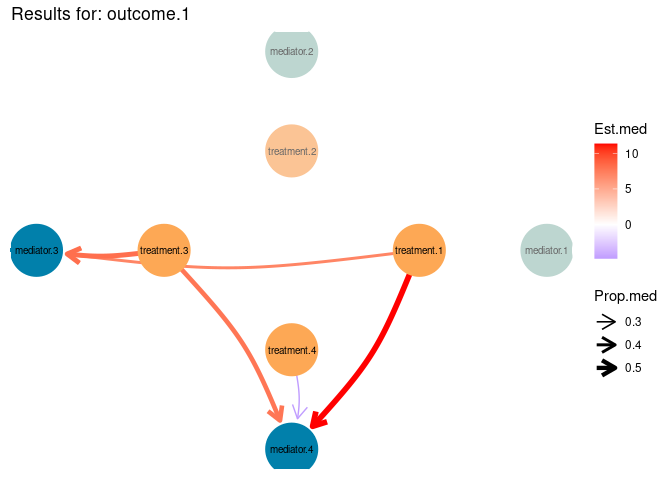
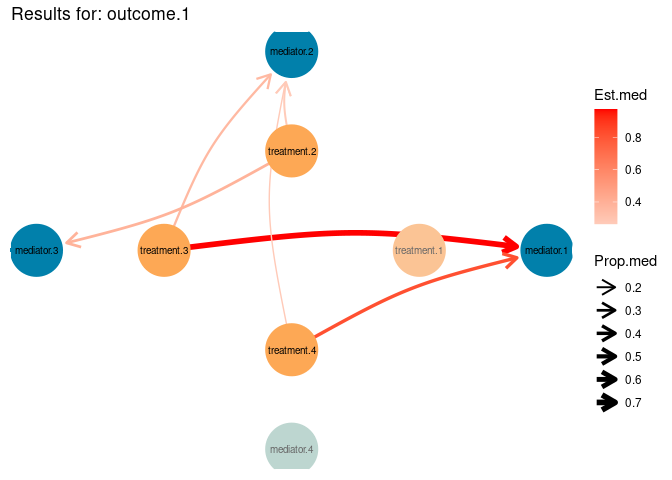
changing readme.md

diff --git a/README.md b/README.md
@@ -16,37 +16,52 @@ analysis could be performed.
 
 ## Data
 
-To do so, we will make use of a dataframe that contains information of
-98 mice that have died between week 26 and week 138 (this information is
-stored in a column called `age_death`). The dataframe also contains
-several columns indicating the sex of the mice (`sex`), and the measures
-of different treatments and mediators collected in a continuous form.
-There is an additional column (`HF`), that differentiates between mice
-that have died as a result of heart failure or not, 1 or 0,
-respectively.
+To do so, we will simulate some data. Imagine that we have 100
+individuals for which we have measured 4 different treatments (binary),
+4 different mediators (continuous) and a single outcome (continuous).
 
 ``` r
-data("df", package = "htmed")
+set.seed(123)
+
+n <- 100
+
+# data for the treatments
+df <- data.frame(
+  treatment.1 = rbinom(n, 1, 0.5), 
+  treatment.2 = rbinom(n, 1, 0.5), 
+  treatment.3 = rbinom(n, 1, 0.5),  
+  treatment.4 = rbinom(n, 1, 0.5),
+  outcome.1 = rnorm(n)
+)
+
+# data for the mediators
+df$mediator.1 <- - 0.5 * df$treatment.1 + 0.3 * df$treatment.2 + 0.4 * df$treatment.3 + 0.6 * df$treatment.4 + rnorm(n)
+df$mediator.2 <- -0.6 * df$treatment.1 - 0.5 * df$treatment.2 - 0.4 * df$treatment.3 - 0.7 * df$treatment.4 + rnorm(n)
+df$mediator.3 <- - 0.7 * df$treatment.2 - 0.2 * df$treatment.3 - 1 * df$treatment.4 + rnorm(n)
+df$mediator.4 <- - 0.5 * df$treatment.2 - 0.3 * df$treatment.3 - 0.2 * df$treatment.4 - rnorm(n)
+
+# data for the outcome
+df$outcome.1 <- 1 + 1.2 * df$mediator.1 + 1.0 * df$treatment.1 + 0.8 * df$treatment.2 + 0.6 * df$treatment.3 + 0.9 * df$treatment.4 + rnorm(n)
 ```
 
 With this data, we hypothesize that some treatments could be responsible
-of the heart failure observed in the mice, and that some mediators could
-explain the underlying mechanism of the relationship between the
-treatment and heart failure.
+of the values for the outcome observed in the individuals, and that some
+mediators could explain the underlying mechanism of the relationship
+between the treatment and the outcome.
 
 Therefore, we are interested in testing the association between each
-treatment and heart failure, through each mediator. In order to perform
-this mediation analyses, we first need to compute the fitted models for
+treatment and outcome, through each mediator. In order to perform this
+mediation analyses, we first need to compute the fitted models for
 mediators and outcomes, respectively, something that can be done with
 `generatting_models()`. However, before applying this function, we need
-to generate a new dataframe in which we will specify what combination of
-treatment, mediator and outcome we want to test. The dataframe (called
+to generate a new DataFrame in which we will specify what combination of
+treatment, mediator and outcome we want to test. The DataFrame (called
 `models` in this example), will be composed of as many rows as different
 analyses we want to perform and five different columns:
 
 -   outcome (characters): it contains the different outcomes that we are
     interested in predict. In this example we will work with just one
-    outcome: heart failure.
+    outcome.
 -   treatment (characters): column with the different treatments to
     test.
 -   mediator (characters): column with the different mediators to test.
@@ -56,11 +71,12 @@ analyses we want to perform and five different columns:
 -   model.y.formula (characters): similar to model.m.formula but with
     the formulas for the fitted models for outcome.
 
-As you can see, we will make use of `data_models()` to generate this
-dataframe. By default, this function makes all possible combinations of
-the supplied vectors outcome, treatment and mediator. If the user is
-interested in compute just some specific models, we recommend to build a
-dataframe following the five-column structure of `models`.
+As you can see, we will use the `data_models()` function to generate
+this DataFrame. By default, this function makes all possible
+combinations of the supplied vectors for outcome, treatment and
+mediator. If the user is interested in compute just some specific
+models, we recommend to build a DataFrame following the five-column
+structure of `models`.
 
 ``` r
 # data("models_surv", package = "htmed")
@@ -76,11 +92,11 @@ models <- data_models(outcome = outcome, mediator = mediator, treatment = treatm
 ### Generatting models for mediators and outcomes
 
 After generating `models`, we have all the necessary to apply the
-`generate_models()` function. This function will allow us to generate
-the fitted models for mediators and outcomes, for each combination of
+`generate_models()` function. With this function we will generate the
+fitted models for mediators and outcomes, for each combination of
 mediator, treatment and outcome, in an iterative manner.
 `generate_models()` contains 6 arguments, being mandatory 4 of them: the
-dataframe with the values (`data`), the dataframe with the models to
+DataFrame with the values (`data`), the DataFrame with the models to
 perform (`data.models`), the name of the column that contains the model
 formulas in `data.models` (`column.models`) and the statistical analysis
 we are interested in applying over the data (`model.type`). There are
@@ -105,7 +121,7 @@ medANDtreat <- generate_models(
 # fitted models for the outcome
 medANDtreat <- generate_models(
     column.models='model.y.formula'
-  , model.type=survival::survreg
+  , model.type=lm
   , data=df
   , data.models=medANDtreat
   , model.m = FALSE
@@ -121,7 +137,7 @@ with two additional columns:
 ### High-throughput mediation analysis
 
 To apply high-throughput mediation, we execute the `htmed()` function
-over this data. From this point, we will just work with the dataframe
+over this data. From this point, we will just work with the DataFrame
 generated in the previous step `medANDtreat`. `htmed()` requires the
 following arguments:
 
@@ -190,14 +206,14 @@ difficult to understand.
 We need to transform this data to simplify and make it more
 user-friendly for the visualizations that will be performed later. Using
 `format_med()` with just `med_results` as input, we will generate a
-dataframe with the essential columns needed for the visualizations.
+DataFrame with the essential columns needed for the visualizations.
 
 This function also computes two different kinds of adjusted p-value:
-adj.p-value.by_outcome and adj.p-value.all. The different between both
-is that while the first one adjust by each of the outcomes, the second
-adjusted p-value will take into account all the analyses from all the
-outcomes. The usage of one or the other will depend on the question that
-the investigator wants to answer.
+adj.p-value.by_outcome and adj.p-value.all. The difference between both
+results is that, while the first one adjusts by each of the outcomes,
+the second adjusted p-value takes into account all the analyses from all
+the outcomes. The usage of one or the other will depend on the question
+that the investigator wants to answer.
 
 ``` r
 # formatting data
@@ -253,17 +269,17 @@ functions.
 Nevertheless, you can filter the data by specifying the level of
 significance (`pval`) and the column to apply it (`pval.column`). In the
 following chunks, we will restrict our representation to mediation
-analyses with an adjusted p-value \<= 0.05.
+analyses with an p-value \<= 0.05.
 
 ``` r
 visual_outcome1_adj0.05 <- visual_htmed(
   mediation.form = format_results
   , outcome = 'outcome.1'
-  , pval.column = 'adj.p-value.by_outcome'
+  , pval.column = 'p-value_Prop._Mediated_(average)'
   , pval = 0.05)
-#> Results with adj.p-value.by_outcome <= 0.05 will be filtered out
+#> Results with p-value_Prop._Mediated_(average) <= 0.05 will be filtered out
 visual_outcome1_adj0.05
-#> Warning: Removed 11 rows containing missing values or values outside the scale range
+#> Warning: Removed 10 rows containing missing values or values outside the scale range
 #> (`geom_point()`).
 ```
 
@@ -273,9 +289,9 @@ visual_outcome1_adj0.05
 graph_outcome1_adj0.05 <- graph_htmed(
   mediation.form = format_results
   , outcome = 'outcome.1'
-  , pval.column = 'adj.p-value.by_outcome'
+  , pval.column = 'p-value_Prop._Mediated_(average)'
   , pval = 0.05)
-#> Results with adj.p-value.by_outcome <= 0.05 will be filtered out
+#> Results with p-value_Prop._Mediated_(average) <= 0.05 will be filtered out
 graph_outcome1_adj0.05
 ```
 
@@ -289,37 +305,36 @@ the end of the arrows, as it will be shown in the next chunk.
 graph_htmed(
     mediation.form = format_results
   , outcome = 'outcome.1'
-  , pval.column = 'adj.p-value.by_outcome'
+  , pval.column = 'p-value_Prop._Mediated_(average)'
   , pval = 0.05
   , size_node = 1.5
   , size_name = 1.3
   , end_arrow = 4)
-#> Results with adj.p-value.by_outcome <= 0.05 will be filtered out
+#> Results with p-value_Prop._Mediated_(average) <= 0.05 will be filtered out
 ```
 
 <img src="man/figures/README-visualizing-5-1.png" width="100%" />
 
 ## Splitting the data
 
-If we explore again the original data, with the values for outcomes,
-treatments and mediators, we will see that there is an additional column
-not mentioned before (`split`).
+Now, we will include a new column to the original DataFrame, to classify
+individuals depending on their comorbidity.
 
 ``` r
+df <- df %>% 
+  mutate(split = sample(x = c('HighBP', 'Diabetes'), size = 100, replace = TRUE))
+
 df %>% dplyr::select(split) %>% table(.)
 #> split
-#>          Diabetes HighBloodPressure 
-#>                45                53
+#> Diabetes   HighBP 
+#>       45       55
 ```
 
-This column contains two values that tells if the mice had Diabetes or
-High blood pressure.
-
 Under the previous hypothesis, we were perfoming the analyses with the
-mices as a whole. Nevertheless, we now think that the underlying
-mechanisms that leads to heart failure could differ depending on the
-condition observed in the animals. `htmed` package allows to take this
-into account by some additional arguments present in the functions
+individuals as a whole. Nevertheless, we now think that the underlying
+mechanisms that leads to the outcome could differ depending on the
+condition observed in the individuals. `htmed` package allows to take
+this into account by some additional arguments present in the functions
 available.
 
 ### Generating models for mediators and outcomes
@@ -340,25 +355,23 @@ medANDtreat.split <- generate_models(
   , data.split = 'split'
   ) 
 #> Number of cores that will be used: 5
-#> Your data contains NA. These rows will not be taken into account for the models
 #> Performing fitted models for mediator
 
 # fitted models for the outcome
 medANDtreat.split <- generate_models(
     column.models='model.y.formula'
-  , model.type=survival::survreg
+  , model.type=lm
   , data=df
   , data.models=medANDtreat.split
   , model.m = FALSE
   , data.split = 'split'
   ) 
 #> Number of cores that will be used: 5
-#> Your data contains NA. These rows will not be taken into account for the models
 #> Performing fitted models for outcome
 ```
 
-Comparing this new dataframe (`medANDtreat.split`) with the one in which
-split was not applied (`medANDtreat`), we will notice that the first one
+Comparing this new DataFrame (`medANDtreat.split`) with the one in which
+split was not applied (`medANDtreat`), we will notice that the new one
 doubles the dimension of the second one. This is because the fitted
 models have been performed independently for each condition.
 
@@ -398,7 +411,7 @@ names(med_results.split)
 
 # Conditions
 names(med_results.split$outcome.1)
-#> [1] "HighBloodPressure" "Diabetes"
+#> [1] "Diabetes" "HighBP"
 
 # Analyses for Diabetes
 names(med_results.split$outcome.1$Diabetes)
@@ -428,7 +441,7 @@ format_results.split <- format_med(med_results.split, split = TRUE)
 visual_outcome1_nosig.split <- visual_htmed(
     mediation.form = format_results.split
   , outcome = 'outcome.1'
-  , split = 'split')
+  , data.split = 'split')
 #> pval.column argument not provided. Results without filtering data will be displayed
 visual_outcome1_nosig.split
 ```
@@ -444,11 +457,11 @@ graph_outcome1_nosig.split <- graph_htmed(
     mediation.form = format_results.split
   , outcome = 'outcome.1'
   , size_node = 0.65
-  , split = 'split')
+  , data.split = 'split')
 #> pval.column argument not provided. Results without filtering data will be displayed
 
 library(patchwork)
-graph_outcome1_nosig.split$Diabetes + graph_outcome1_nosig.split$HighBloodPressure
+graph_outcome1_nosig.split$Diabetes + graph_outcome1_nosig.split$HighBP
 ```
 
 <img src="man/figures/README-visualizing.split-2-1.png" width="100%" />
